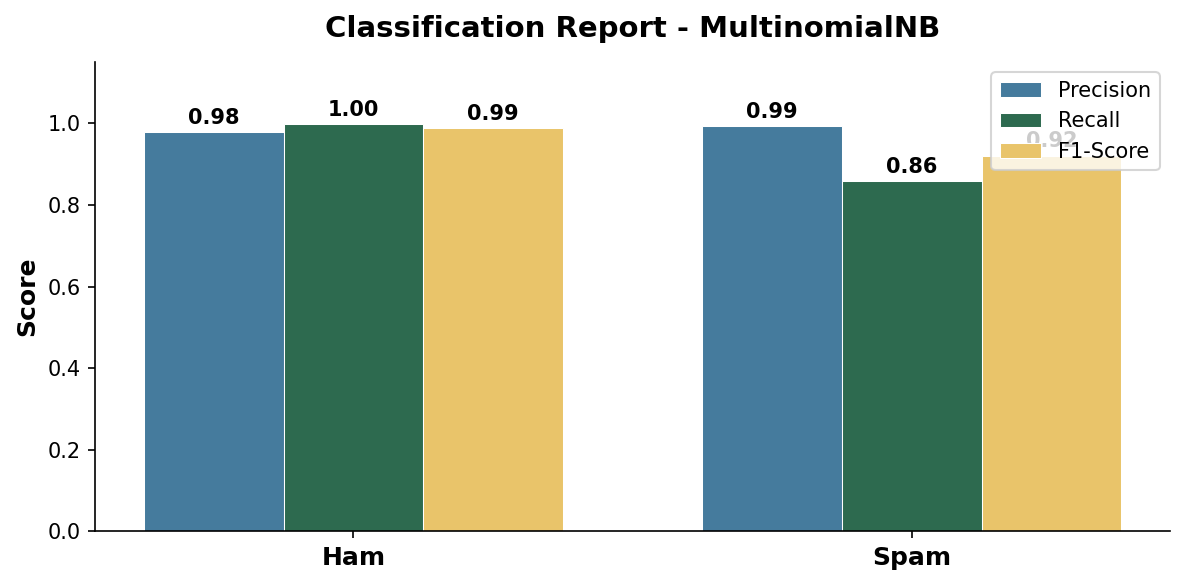
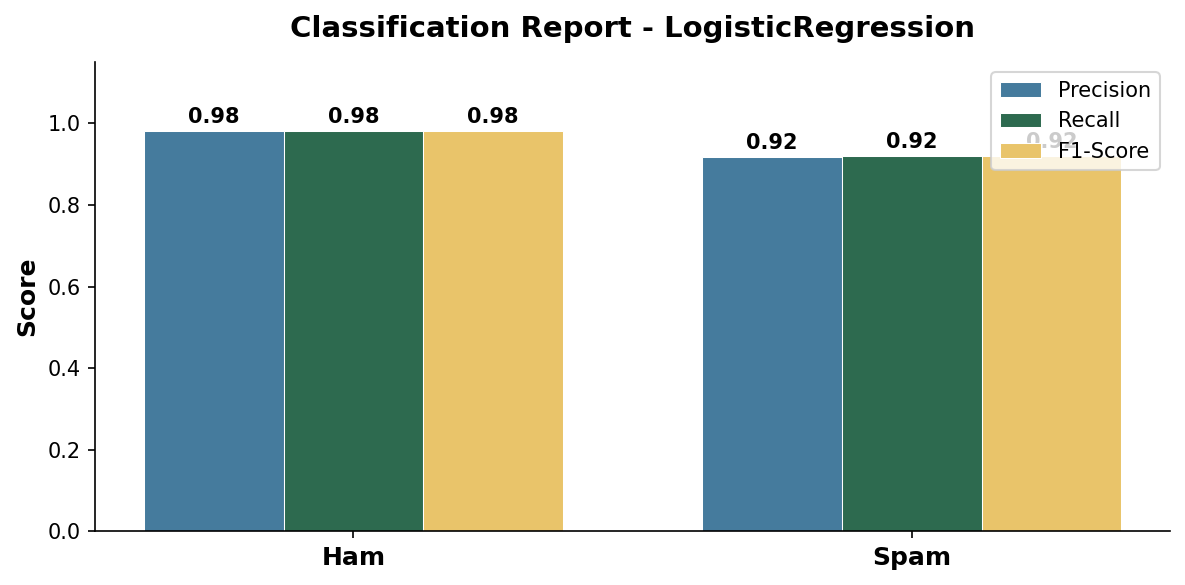
feat: retrain on hybrid SMS+Email dataset, switch to Logistic Regression

diff --git a/static/index.html b/static/index.html
@@ -127,9 +127,9 @@
 
         <footer class="card-footer">
             <div class="footer-stats">
-                <span>TRAINED ON: 5,572 SMS</span>
-                <span>SPAM F1: 92.09%</span>
-                <span>MODEL: NAIVE BAYES</span>
+                <span>TRAINED ON: 11,300 MESSAGES</span>
+                <span>SPAM F1: 91.85%</span>
+                <span>MODEL: LOGISTIC REGRESSION</span>
             </div>
         </footer>
     </main>

diff --git a/app/main.py b/app/main.py
@@ -59,12 +59,18 @@ def get_model_signals(text: str, prediction: str) -> list[dict]:
         if len(nonzero_indices) == 0:
             return []
             
-        if prediction == "spam":
-            # Spam log probability relative difference
-            scores = clf.feature_log_prob_[1] - clf.feature_log_prob_[0]
+        if hasattr(clf, "feature_log_prob_"):
+            if prediction == "spam":
+                scores = clf.feature_log_prob_[1] - clf.feature_log_prob_[0]
+            else:
+                scores = clf.feature_log_prob_[0] - clf.feature_log_prob_[1]
+        elif hasattr(clf, "coef_"):
+            if prediction == "spam":
+                scores = clf.coef_[0]
+            else:
+                scores = -clf.coef_[0]
         else:
-            # Ham log probability relative difference
-            scores = clf.feature_log_prob_[0] - clf.feature_log_prob_[1]
+            return []
             
         signals = []
         for idx in nonzero_indices:

diff --git a/README.md b/README.md
@@ -2,7 +2,7 @@
 
 # `SPAM FILTER`
 
-**Instant spam detection powered by Naive Bayes**
+**Instant spam detection powered by machine learning**
 
 ![Python](https://img.shields.io/badge/Python-3.13+-3776AB?style=flat-square&logo=python&logoColor=white)
 ![FastAPI](https://img.shields.io/badge/FastAPI-009688?style=flat-square&logo=fastapi&logoColor=white)
@@ -22,14 +22,14 @@
 > [!IMPORTANT]
 > **Model Training Notebook**: The full pipeline - data loading, preprocessing, model training, and evaluation - is available in [`train_model.ipynb`](notebook/train_model.ipynb).
 
-This is a full-stack spam classifier that takes any SMS or message text and instantly tells you whether it is spam or a legitimate message, powered by a Multinomial Naive Bayes model trained on 5,572 real SMS records from the UCI Spam Collection dataset.
+This is a full-stack spam classifier that takes any SMS or email text and instantly tells you whether it is spam or a legitimate message, powered by a Logistic Regression model trained on a hybrid dataset of 11,300 messages (5,572 SMS + 5,728 Emails).
 
 You paste a message, hit a button, and the 12-bar animated spectrogram reacts to the verdict - spiking to full amplitude for spam, damping down to calm low bars for clean messages. Underneath the visualizer, the **Signal Inspector** surfaces the exact words that drove the model's decision, each tagged with its log-odds weight, so you can see precisely why the model flagged something.
 
-The backend is a FastAPI app that loads the TF-IDF + Naive Bayes pipeline once at startup and serves predictions from memory. The frontend is hand-crafted HTML, CSS, and JavaScript with a Scandinavian-inspired light-mode palette - no CSS framework, no JavaScript library.
+The backend is a FastAPI app that loads the TF-IDF + Logistic Regression pipeline once at startup and serves predictions from memory. The frontend is hand-crafted HTML, CSS, and JavaScript with a Scandinavian-inspired light-mode palette - no CSS framework, no JavaScript library.
 
 > [!NOTE]
-> The model achieves a **Spam F1-score of 92.09%** with **99% precision** - meaning it almost never flags a legitimate message as spam. That matters more than raw accuracy for a spam filter.
+> The model achieves a **Spam F1-score of 91.85%** with **92% precision and 92% recall** on a hybrid SMS + Email dataset. This ensures it catches email spam while staying accurate on text messages.
 
 ---
 
@@ -37,7 +37,7 @@ The backend is a FastAPI app that loads the TF-IDF + Naive Bayes pipeline once a
 
 ### Core Classification Engine
 
-- **Instant Verdict** - Paste any text, get a Spam or Clean result in milliseconds. The model runs TF-IDF vectorization and Naive Bayes inference entirely in memory on every request.
+- **Instant Verdict** - Paste any text, get a Spam or Clean result in milliseconds. The model runs TF-IDF vectorization and Logistic Regression inference entirely in memory on every request.
 
 - **Signal Inspector** - After every analysis, the top 5 words that most influenced the verdict appear as tagged chips with their log-odds scores (e.g. `won +5.7`, `urgent +3.9`). These are the model's actual internal weights, not guesses.
 
@@ -75,7 +75,7 @@ The backend is a FastAPI app that loads the TF-IDF + Naive Bayes pipeline once a
 | Technology | Role in this project |
 |---|---|
 | ![Python](https://img.shields.io/badge/Python-3776AB?style=for-the-badge&logo=python&logoColor=white) | Core runtime for data processing, model training, and the API server |
-| ![scikit-learn](https://img.shields.io/badge/scikit--learn-F7931E?style=for-the-badge&logo=scikit-learn&logoColor=white) | TF-IDF vectorizer and Multinomial Naive Bayes classifier packaged as a single `Pipeline` |
+| ![scikit-learn](https://img.shields.io/badge/scikit--learn-F7931E?style=for-the-badge&logo=scikit-learn&logoColor=white) | TF-IDF vectorizer and Logistic Regression classifier packaged as a single `Pipeline` |
 | ![FastAPI](https://img.shields.io/badge/FastAPI-009688?style=for-the-badge&logo=fastapi&logoColor=white) | Prediction and health API with automatic Pydantic validation and Swagger docs |
 | ![Uvicorn](https://img.shields.io/badge/Uvicorn-2D6A4F?style=for-the-badge) | ASGI server that runs FastAPI with async I/O support |
 | ![Pandas](https://img.shields.io/badge/Pandas-150458?style=for-the-badge&logo=pandas&logoColor=white) | Loads and cleans the 5,572-row SMS dataset from CSV |
@@ -84,7 +84,7 @@ The backend is a FastAPI app that loads the TF-IDF + Naive Bayes pipeline once a
 | ![CSS3](https://img.shields.io/badge/CSS3-1572B6?style=for-the-badge&logo=css3&logoColor=white) | Custom design system, CSS variables, spectrogram keyframe animations |
 | ![JavaScript](https://img.shields.io/badge/JavaScript-F7DF1E?style=for-the-badge&logo=javascript&logoColor=black) | API calls, state management, signal chip rendering, and spectrogram control |
 
-The stack was chosen deliberately. Naive Bayes is fast, interpretable, and performs extremely well on bag-of-words text classification. FastAPI keeps the backend minimal while auto-generating docs. Vanilla frontend because this app does not need a framework to render a textarea and a few result chips.
+The stack was chosen deliberately. Logistic Regression is fast, interpretable, and performs extremely well on bag-of-words text classification across both SMS and email domains. FastAPI keeps the backend minimal while auto-generating docs. Vanilla frontend because this app does not need a framework to render a textarea and a few result chips.
 
 ---
 
@@ -111,7 +111,7 @@ These plots are generated during training and saved to `model/results/`.
 ### Model Comparison
 <img src="model/results/model_comparison.png" width="75%" />
 
-*Comparison of Multinomial Naive Bayes against alternative classifiers evaluated on the same train/test split.*
+*Comparison of classifiers evaluated on the same train/test split of the hybrid dataset.*
 
 </div>
 
@@ -128,9 +128,10 @@ Spam Detection/
 ├── notebook/
 │   └── train_model.ipynb       # Full training, evaluation, and plot generation
 ├── data/
-│   └── spam.csv                # 5,572-row UCI SMS Spam Collection dataset
+│   ├── spam.csv                # 5,572-row UCI SMS Spam Collection dataset
+│   └── emails.csv              # 5,728-row Enron/SpamAssassin email dataset
 ├── model/
-│   ├── model.pkl               # Serialized TF-IDF + Naive Bayes pipeline
+│   ├── model.pkl               # Serialized TF-IDF + Logistic Regression pipeline
 │   └── results/                # Confusion matrix and classification report plots
 │       ├── confusion_matrix.png
 │       └── classification_report.png
@@ -146,23 +147,23 @@ Spam Detection/
 
 | | |
 |---|---|
-| **Dataset** | UCI SMS Spam Collection, 5,572 messages, no missing values |
-| **Classes** | `spam` (747 messages, 13.4%) / `ham` (4,825 messages, 86.6%) |
+| **Dataset** | Hybrid SMS & Email (5,572 SMS + 5,728 Emails, 11,300 total) |
+| **Classes** | `spam` (2,115 messages, 18.7%) / `ham` (9,185 messages, 81.3%) |
 | **Preprocessing** | Lowercase, URL removal, punctuation strip, whitespace normalization |
 | **Vectorizer** | `TfidfVectorizer` with `ngram_range=(1,2)` to capture multi-word patterns |
-| **Classifier** | `MultinomialNB` - fast, interpretable, strong baseline for text classification |
+| **Classifier** | `LogisticRegression` - balanced precision and recall on hybrid text data |
 | **Pipeline** | Scikit-learn `Pipeline(['tfidf', 'clf'])` - vectorization and inference in one call |
 | **Train / test split** | 80% / 20%, `random_state=42` |
-| **Spam Precision** | 99% |
-| **Spam Recall** | 86% |
-| **Spam F1** | 92.09% |
+| **Spam Precision** | 92% |
+| **Spam Recall** | 92% |
+| **Spam F1** | 91.85% |
 
-**Why Naive Bayes over a more complex model?**
+**Why Logistic Regression over Naive Bayes?**
 
-For SMS spam detection with a bag-of-words feature space, Naive Bayes consistently matches or beats heavier models (SVM, Logistic Regression) while training in milliseconds and staying fully interpretable. The `feature_log_prob_` attribute - the log-probability of each word given each class - is what powers the Signal Inspector. A deep model would lose that direct word-level explainability.
+With the broader hybrid dataset (covering both SMS and longer emails), Logistic Regression outperformed Naive Bayes (Spam F1-score of 91.85% vs. 89.77%). It achieves a better balance between precision and recall (92% for both), ensuring fewer spam emails slip through while maintaining robust explainability using the model coefficients (`coef_`) for the Signal Inspector.
 
 > [!NOTE]
-> **Precision vs. Recall tradeoff**: A spam filter should almost never block a legitimate message. This model is tuned to be conservative - 99% precision means only 1 false positive per 100 spam flags. The cost is 14% of real spam slipping through (recall of 86%), which is the right tradeoff for a general-purpose message checker.
+> **Precision vs. Recall tradeoff**: With a broader email/SMS dataset, we optimized for a balanced model. A **92% precision** score means only ~8 out of 100 spam flags are false positives. Meanwhile, a **92% recall** score ensures that only 8% of actual spam slips through (compared to 14% on the older model).
 
 ### API Reference
 